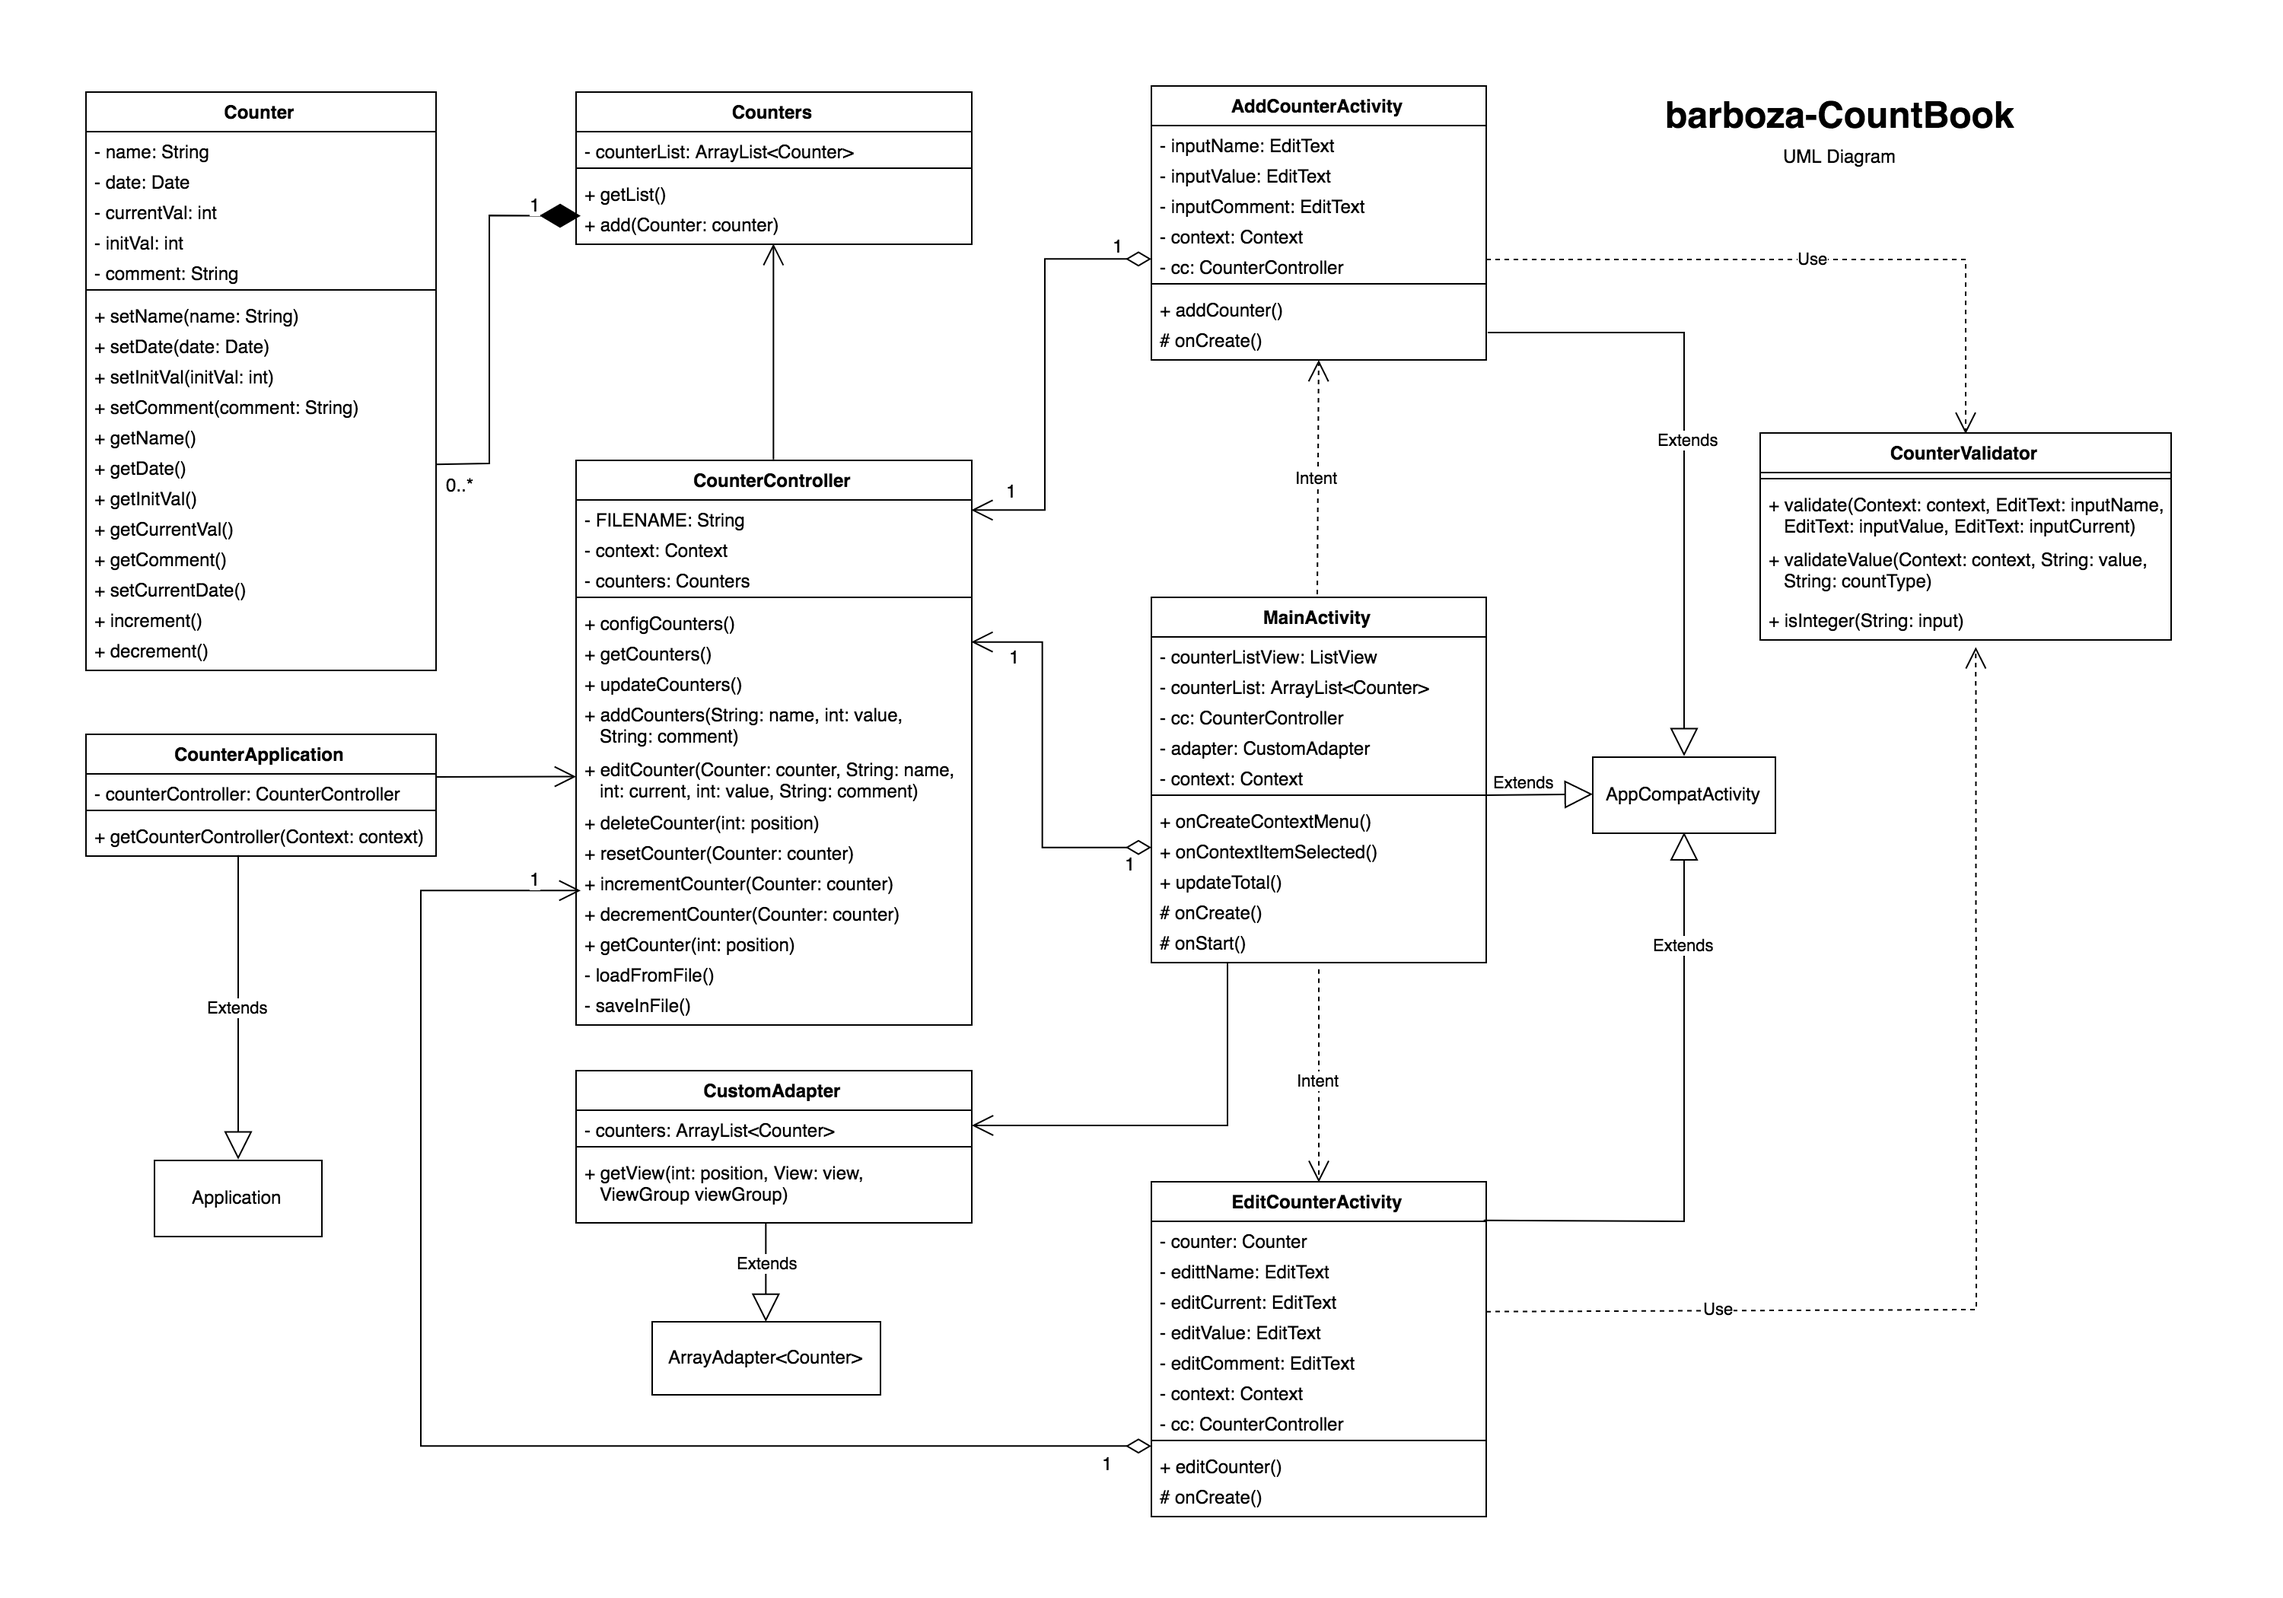
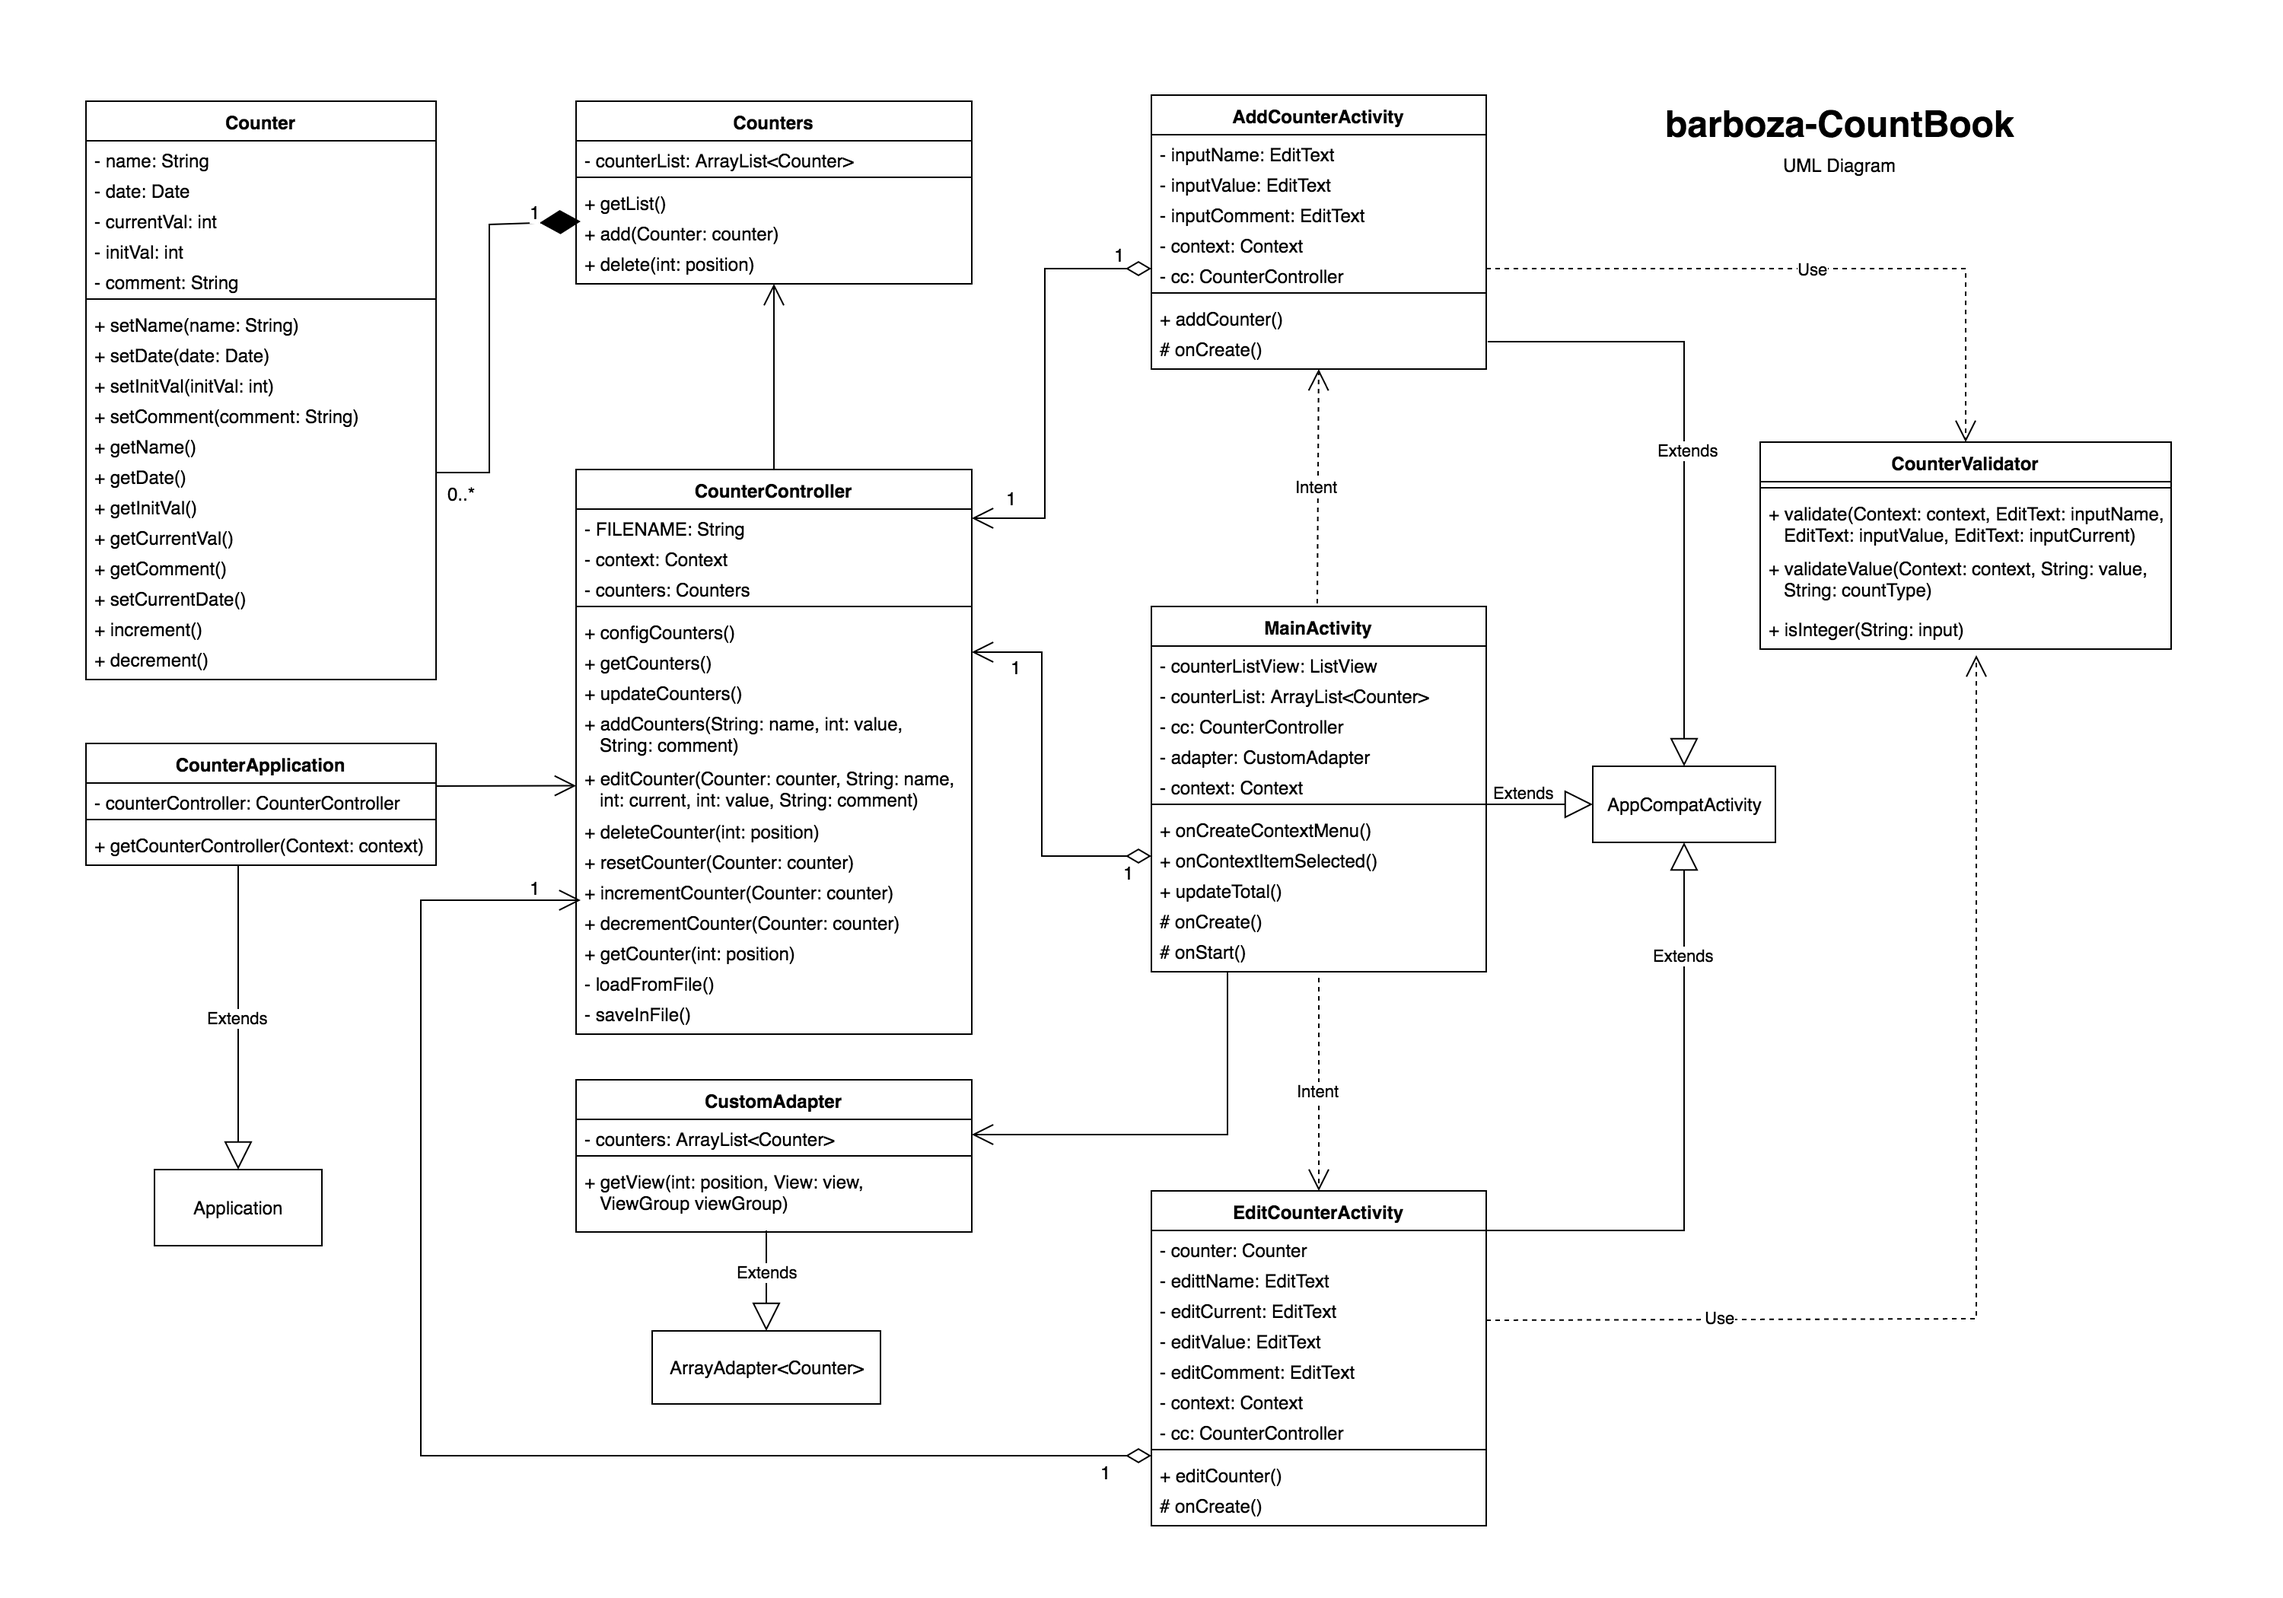
Restore delete method to Counters model

diff --git a/app/src/main/java/com/example/barboza_countbook/Counters.java b/app/src/main/java/com/example/barboza_countbook/Counters.java
@@ -46,4 +46,12 @@ public class Counters {;
         newCounter.setCurrentDate();
         counterList.add(newCounter);
     }
+
+    /**
+     * Deletes a counter from the counter array
+     * @param position the index of the counter in the array
+     */
+    public void delete(int position) {
+        counterList.remove(position);
+    }
 }

diff --git a/app/src/main/java/com/example/barboza_countbook/CounterController.java b/app/src/main/java/com/example/barboza_countbook/CounterController.java
@@ -111,7 +111,7 @@ public class CounterController {
      * @param position index of counter in counter array
      */
     public void deleteCounter(int position) {
-        counters.getList().remove(position);
+        counters.delete(position);
         saveInFile();
     }
 
